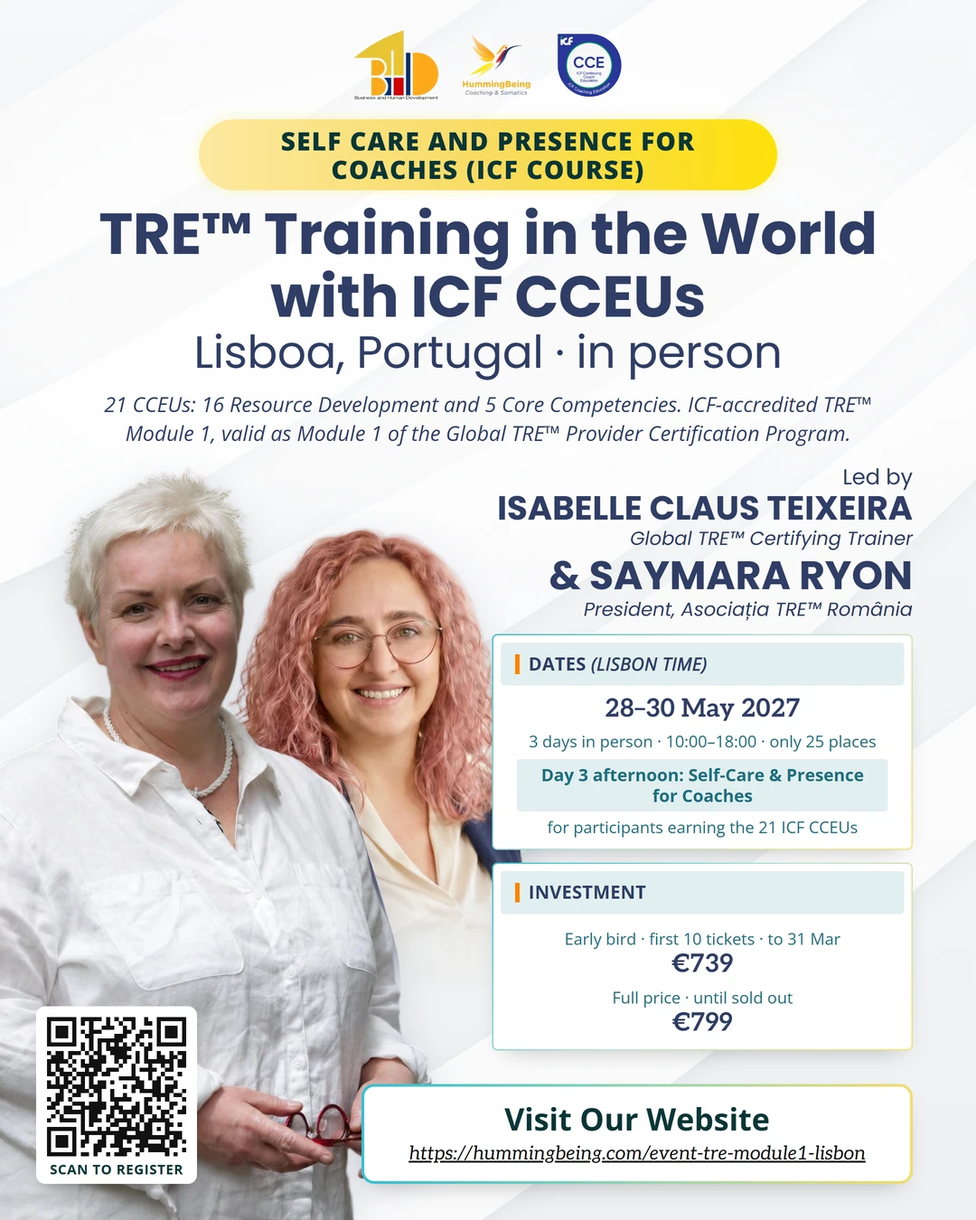
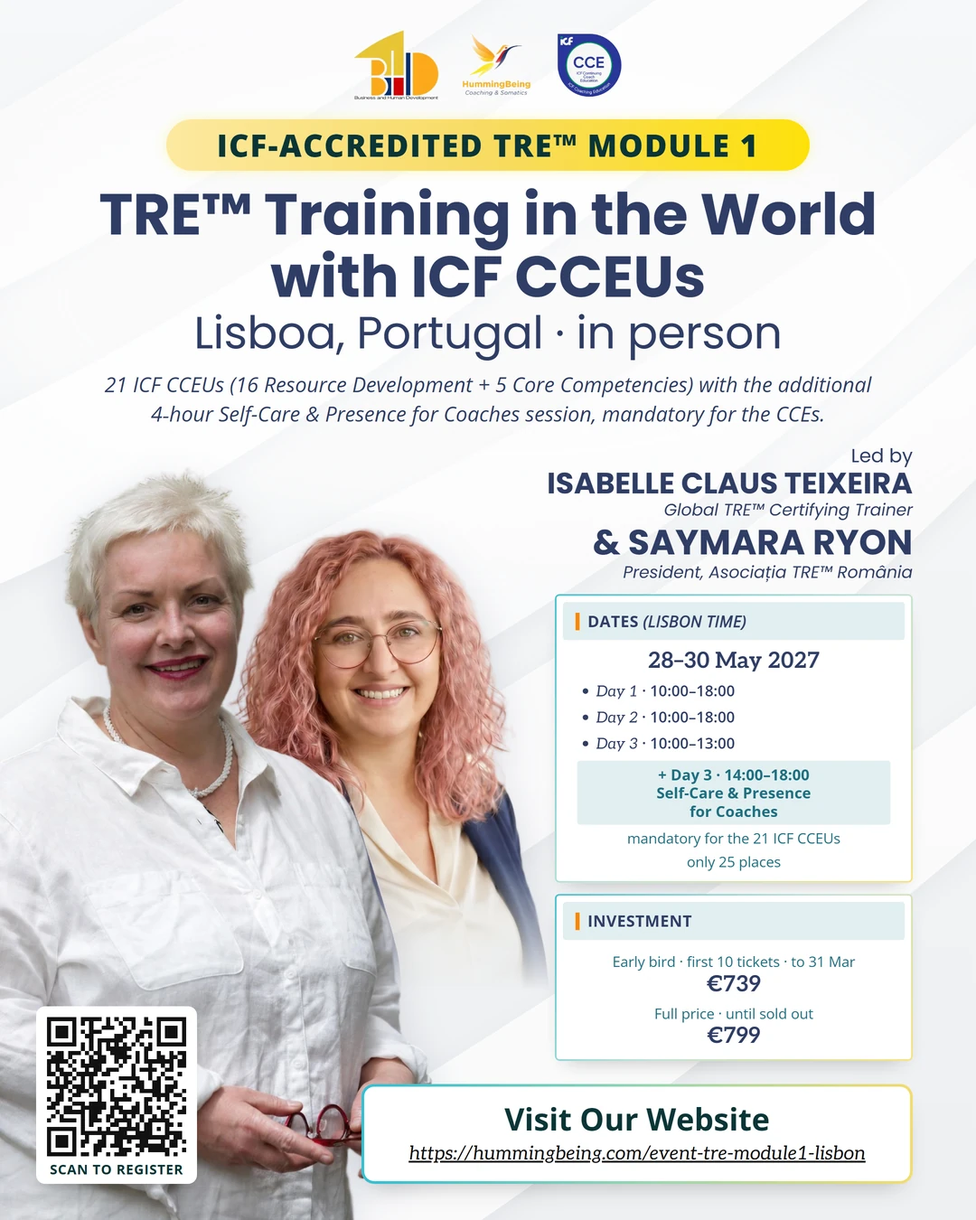
Lisbon Module 1: ICF-accredited Module 1 + additional 4 h Self-Care & Presence for Coaches (mandatory for the 21 CCEs)
Isabelle, 4 Nov (urgent): the ICF-accredited Module 1 includes an additional
4 hours, Self-Care & Presence for Coaches (Day 3, 14:00-18:00), mandatory to
get the 21 CCEs; without the CCEs attend 28 + 29 May all day and 30 May morning.
Module 2 (ICF accreditation pending) 1 June full day, 2-4 June half days;
Module 3 22-24 October 2027.

- Module 1 page: hero, why section (new module list), programme in two blocks
  (ICF-Accredited Module 1 / Day 3 afternoon for coaches), included list, JSON-LD
- Poster: banner ICF-Accredited TRE(TM) Module 1, Day 1-3 times + the extra 4 h
- 16:9 card (og:image, events/home): Isabelle's art kept, banner replaced
- Events/Home cards, llms.txt, ICF page tile, certification page (Module 1 text,
  Module 2 ICF accreditation pending); cache-busters bumped

Changed region(s): [[0.0917, 0.0933, 0.9472, 0.8711]]

diff --git a/event-tre-module1-lisbon.html b/event-tre-module1-lisbon.html
@@ -22,14 +22,14 @@ j=d.createElement(s),dl=l!="dataLayer"?"&l="+l:"";j.async=true;j.src=
   <link rel="icon" type="image/png" sizes="16x16" href="favicon-16.png?v=3" />
   <link rel="icon" href="favicon.ico?v=3" sizes="any" />
   <link rel="apple-touch-icon" href="apple-touch-icon.png?v=3" />
-  <link rel="preload" as="image" href="images/event-lisbon-module1.webp?v=1" fetchpriority="high">
+  <link rel="preload" as="image" href="images/event-lisbon-module1.webp?v=2" fetchpriority="high">
   <meta name="keywords" content="TRE™ Module 1 Portugal, TRE™ certification Lisbon, TRE™ Lisboa, ICF CCEUs TRE™, TRE™ provider certification Europe, Isabelle Claus Teixeira, Saymara Ryon" />
   <link rel="canonical" href="https://hummingbeing.com/event-tre-module1-lisbon" />
   <meta name="robots" content="index, follow" />
   <meta property="og:type" content="website" />
   <meta property="og:title" content="TRE&#8482; Module 1 Lisbon — 28&#8211;30 May 2027 | 21 ICF CCEUs" />
   <meta property="og:description" content="TRE&#8482; Module 1 Certification Training in Lisbon, Portugal — 28&#8211;30 May 2027. The only TRE&#8482; training in the world with ICF CCEUs. 25 places." />
-  <meta property="og:image" content="https://hummingbeing.com/images/event-lisbon-module1.webp?v=1" />
+  <meta property="og:image" content="https://hummingbeing.com/images/event-lisbon-module1.webp?v=2" />
   <meta property="og:url" content="https://hummingbeing.com/event-tre-module1-lisbon" />
   <meta name="twitter:card" content="summary_large_image" />
   <script type="application/ld+json">
@@ -37,7 +37,7 @@ j=d.createElement(s),dl=l!="dataLayer"?"&l="+l:"";j.async=true;j.src=
     "@context": "https://schema.org",
     "@type": "EducationEvent",
     "name": "TRE™ Module 1 — Lisbon, Portugal",
-    "description": "TRE™ Module 1 Certification Training with ICF CCEUs, 10:00-18:00 each day. 21 ICF CCEUs (16 Resource Development + 5 Core Competencies) for participants who join the Day 3 afternoon workshop, Self-Care & Presence for Coaches (30 May); for everyone else Module 1 ends at 13:00 on 30 May. Led by Isabelle Claus Teixeira, assisted by Saymara Ryon. Limited to 25 participants.",
+    "description": "ICF-accredited TRE™ Module 1 in Lisboa: Day 1 (28 May) and Day 2 (29 May) 10:00-18:00, Day 3 (30 May) 10:00-13:00. The ICF-accredited Module 1 includes an additional 4 hours, Self-Care & Presence for Coaches (30 May, 14:00-18:00), which is mandatory to attend for the 21 ICF CCEUs (16 Resource Development + 5 Core Competencies). Led by Isabelle Claus Teixeira, assisted by Saymara Ryon. Limited to 25 participants.",
     "startDate": "2027-05-28T10:00:00+01:00",
     "endDate": "2027-05-30T18:00:00+01:00",
     "eventStatus": "https://schema.org/EventScheduled",
@@ -213,7 +213,7 @@ height="0" width="0" style="display:none;visibility:hidden"></iframe></noscript>
 
 <!-- HERO -->
 <section class="ce-hero">
-  <div class="ce-bg" style="background-image:url('images/event-lisbon-module1.webp?v=1')"></div>
+  <div class="ce-bg" style="background-image:url('images/event-lisbon-module1.webp?v=2')"></div>
   <div class="ce-hero-inner">
     <div>
       <p class="ce-crumbs"><a href="/events">Events</a> &rsaquo; Certification</p>
@@ -225,7 +225,7 @@ height="0" width="0" style="display:none;visibility:hidden"></iframe></noscript>
         <span class="ce-badge">Limited to 25 places</span>
       </div>
       <h1>TRE&#8482; Module 1 <em>&mdash; Lisbon</em></h1>
-      <p class="ce-lead">A 3-day immersive certification training in Lisboa, Portugal &#8212; valid as Module 1 of the Global TRE&#8482; Provider Certification and carrying 21 ICF CCEUs. Led by Isabelle Claus Teixeira, assisted by Saymara Ryon. Delivered in English.</p>
+      <p class="ce-lead">An ICF-accredited TRE&#8482; Module 1 in Lisboa, Portugal &#8212; valid as Module 1 of the Global TRE&#8482; Provider Certification. The 21 ICF CCEUs require an additional 4 hours, <strong>Self-Care &amp; Presence for Coaches</strong> (Day 3, 14:00&#8211;18:00). Led by Isabelle Claus Teixeira, assisted by Saymara Ryon. Delivered in English.</p>
       <div class="ce-hero-actions">
         <a href="#register" class="btn btn-primary">Register now &rarr;</a>
         <a href="#programme" class="btn btn-outline">View schedule</a>
@@ -248,11 +248,17 @@ height="0" width="0" style="display:none;visibility:hidden"></iframe></noscript>
 <div class="ce-layout">
   <div class="ce-main">
     <figure class="ce-poster ce-poster-portrait" style="max-width:100%">
-      <img src="images/event-lisbon-module1-poster.webp?v=2" alt="TRE&#8482; Module 1 in Lisboa, Portugal, 28&#8211;30 May 2027, 10:00&#8211;18:00; Day 3 afternoon: Self-Care &amp; Presence for Coaches for the 21 ICF CCEUs. Led by Isabelle Claus Teixeira and Saymara Ryon. Early bird &#8364;739, full price &#8364;799." width="1080" height="1350" decoding="async" />
+      <img src="images/event-lisbon-module1-poster.webp?v=3" alt="ICF-accredited TRE&#8482; Module 1 in Lisboa, Portugal, 28&#8211;30 May 2027: Day 1 and Day 2 10:00&#8211;18:00, Day 3 10:00&#8211;13:00, plus Day 3 14:00&#8211;18:00 Self-Care &amp; Presence for Coaches, mandatory for the 21 ICF CCEUs. Led by Isabelle Claus Teixeira and Saymara Ryon. Early bird &#8364;739, full price &#8364;799." width="1080" height="1350" decoding="async" />
     </figure>
 
     <h2>Why TRE&#8482; Module 1 in Lisbon?</h2>
     <p>This is an <strong>ICF-accredited TRE&#8482; Module 1</strong> &#8212; the only TRE&#8482; training anywhere in the world that carries <strong>ICF CCEUs</strong> (21 CCEUs: 16 Resource Development + 5 Core Competencies). TRE&#8482;, developed by Dr. David Berceli, activates the body&#8217;s natural neurogenic tremoring mechanism &#8212; a reflex that releases stored stress and trauma, builds resilience and promotes deep regulation.</p>
+    <p>The <strong>ICF-accredited Module 1</strong> includes an <strong>additional 4 hours, &#8220;Self-Care &amp; Presence for Coaches&#8221;</strong>, that is <strong>mandatory to attend if you want to get the 21 CCEs</strong>. Not interested in the ICF CCEs? Attend <strong>28 May (all day), 29 May (all day) and 30 May (morning)</strong>.</p>
+    <ul class="ce-list">
+      <li><strong>Module 1</strong> (ICF-accredited) &#8212; 28, 29 and 30 May 2027, Lisboa</li>
+      <li><strong>Module 2</strong> (ICF accreditation pending) &#8212; 1 June (full day), 2, 3 and 4 June (half days) 2027, Lisboa</li>
+      <li><strong>Module 3</strong> &#8212; 22, 23 and 24 October 2027, Lisboa</li>
+    </ul>
     <p>Completing Module 1 qualifies you to <strong>use TRE&#8482; for personal practice</strong>. Combined with Modules 2 and 3, you become a <strong>Certified Global TRE&#8482; Provider</strong> &#8212; accredited to offer TRE&#8482; to individuals and groups.</p>
     <div class="ce-note"><strong>Module 1 can be booked on its own.</strong> Want to become a Certified Global TRE&#8482; Provider? Modules 1, 2 and 3 also run in Lisboa from May to October 2027 &#8212; <a href="/event-tre-certification-lisbon">see the full certification in Lisboa &rarr;</a></div>
 
@@ -266,31 +272,23 @@ height="0" width="0" style="display:none;visibility:hidden"></iframe></noscript>
     </ul>
 
     <h2 id="programme">Programme &#8212; 3 days in Lisbon</h2>
-    <p>Every day runs <strong>10:00&#8211;18:00</strong> Lisbon time. Module 1 ends at <strong>13:00 on 30 May</strong>; the Day 3 afternoon is the <strong>Self-Care &amp; Presence for Coaches</strong> workshop for participants earning the 21 ICF CCEUs.</p>
+    <p><strong>ICF-accredited Module 1:</strong> Day 1 (10:00&#8211;18:00), Day 2 (10:00&#8211;18:00) and Day 3 (10:00&#8211;13:00), Lisbon time. <strong>Day 3, 14:00&#8211;18:00</strong> is for coaches who want the ICF CCEs.</p>
     <div class="ce-sched">
       <div class="ce-day">
-        <div class="when"><b>Day 1</b><span>28 May &middot; 10:00&#8211;18:00</span></div>
-        <div><h4>TRE&#8482; Module 1 &#8212; Part 1</h4><p>The neuroscience of neurogenic tremoring, the TRE&#8482; exercise sequence, somatic awareness, containment and grounding. Guided full TRE&#8482; sessions with direct feedback from your trainers.</p></div>
+        <div class="when"><b>ICF-Accredited Module 1</b><span>Day 1 &middot; 28 May<br>10:00&#8211;18:00</span><span>Day 2 &middot; 29 May<br>10:00&#8211;18:00</span><span>Day 3 &middot; 30 May<br>10:00&#8211;13:00</span></div>
+        <div><h4>TRE&#8482; Module 1 &#8212; Full Certification</h4><p>The neuroscience of neurogenic tremoring, the TRE&#8482; exercise sequence, somatic awareness, containment and grounding. 4 guided full TRE&#8482; sessions. Deepen your practice, integrate the learning and complete Module 1: Q&amp;A, personal practice time and guidance toward Modules 2 and 3. <em>Module 1 ends at 13:00 on 30 May.</em></p></div>
       </div>
       <div class="ce-day">
-        <div class="when"><b>Day 2</b><span>29 May &middot; 10:00&#8211;18:00</span></div>
-        <div><h4>TRE&#8482; Module 1 &#8212; Part 2</h4><p>Deepen your practice: more guided TRE&#8482; sessions, personal practice time and integration of the learning.</p></div>
-      </div>
-      <div class="ce-day">
-        <div class="when"><b>Day 3 &middot; morning</b><span>30 May &middot; 10:00&#8211;13:00</span></div>
-        <div><h4>TRE&#8482; Module 1 &#8212; Completion</h4><p>Integrate the learning and complete Module 1: Q&amp;A and guidance toward Modules 2 and 3. Module 1 ends at 13:00. <em>Certificate of completion issued on completion.</em></p></div>
-      </div>
-      <div class="ce-day">
-        <div class="when"><b>Day 3 &middot; afternoon</b><span>30 May &middot; until 18:00</span></div>
-        <div><h4>Self-Care &amp; Presence for Coaches</h4><p>For participants earning the 21 ICF CCEUs: an afternoon on nervous system regulation and self-induced therapeutic tremoring &#8212; TRE&#8482; as a personal resilience and self-care practice for coaches.</p></div>
+        <div class="when"><b>Day 3 &middot; afternoon</b><span>30 May<br>14:00&#8211;18:00</span><span>For coaches who want the ICF CCEs</span></div>
+        <div><h4>Introductory Afternoon: Self-Care &amp; Presence for Coaches</h4><p>An introductory afternoon of TRE&#8482; as a personal resilience and self-care practice. <strong>Additional 4 hours, mandatory to attend for the 21 ICF CCEs.</strong> <em>ICF CCEs certificate issued on completion.</em></p></div>
       </div>
     </div>
 
     <h2>What is included</h2>
     <ul class="ce-list">
       <li><strong>Module 1 Certification</strong> &#8212; valid as Module 1 of the Global TRE&#8482; Provider Certification Program</li>
-      <li><strong>21 ICF CCEUs</strong> &#8212; 16 Resource Development + 5 Core Competencies (ICF-accredited), with the Day 3 afternoon workshop for coaches</li>
-      <li><strong>3 training days</strong> &#8212; 10:00&#8211;18:00; Module 1 ends at 13:00 on Day 3, followed by the Day 3 afternoon workshop for coaches</li>
+      <li><strong>21 ICF CCEUs</strong> &#8212; 16 Resource Development + 5 Core Competencies (ICF-accredited); attending the additional 4-hour Self-Care &amp; Presence for Coaches session (Day 3, 14:00&#8211;18:00) is mandatory for the CCEs</li>
+      <li><strong>3 training days</strong> &#8212; Day 1 and Day 2 10:00&#8211;18:00, Day 3 10:00&#8211;13:00; plus Day 3 14:00&#8211;18:00 for coaches who want the ICF CCEs</li>
       <li><strong>4 online personal TRE&#8482; sessions</strong> &#8212; included with your training</li>
       <li><strong>Small group</strong> &#8212; limited to 25 participants, led by a Global TRE&#8482; Certifying Trainer with an assisting provider, in English</li>
       <li><strong>Global recognition</strong> &#8212; Module 1 is recognised worldwide under the Global TRE&#8482; Certification Program</li>

diff --git a/events.html b/events.html
@@ -613,7 +613,7 @@ j=d.createElement(s),dl=l!="dataLayer"?"&l="+l:"";j.async=true;j.src=
         "url": "https://hummingbeing.com/isabelle"
       },
       "name": "TRE™ Module 1 — Lisbon, Portugal",
-      "description": "A 3-day TRE™ Module 1 certification training (10:00-18:00) with 21 ICF CCEUs for participants who join the Day 3 afternoon workshop, Self-Care & Presence for Coaches. Led by Isabelle Claus Teixeira and assisted by Saymara Ryon. Limited to 25 places.",
+      "description": "ICF-accredited TRE™ Module 1 in Lisboa: 28 and 29 May 10:00-18:00, 30 May 10:00-13:00. The 21 ICF CCEUs require the additional 4-hour Self-Care & Presence for Coaches session (30 May, 14:00-18:00). Led by Isabelle Claus Teixeira and assisted by Saymara Ryon. Limited to 25 places.",
       "startDate": "2027-05-28",
       "endDate": "2027-05-30",
       "eventStatus": "https://schema.org/EventScheduled",
@@ -1414,12 +1414,12 @@ height="0" width="0" style="display:none;visibility:hidden"></iframe></noscript>
 
     <!-- 6. TRE™ Module 1 Lisbon (28-30 May 2027) -->
     <article class="evt-card" data-cat="international certification" data-start="2027-05-28" data-end="2027-05-30">
-      <a href="/event-tre-module1-lisbon" class="evt-card-thumb"><img src="images/card-event-lisbon-module1.webp?v=1" alt="TRE&#8482; Module 1 Lisboa, Portugal, 28&#8211;30 May 2027, with Isabelle Claus Teixeira and Saymara Ryon" loading="lazy" decoding="async" width="1920" height="1080" /></a>
+      <a href="/event-tre-module1-lisbon" class="evt-card-thumb"><img src="images/card-event-lisbon-module1.webp?v=2" alt="TRE&#8482; Module 1 Lisboa, Portugal, 28&#8211;30 May 2027, with Isabelle Claus Teixeira and Saymara Ryon" loading="lazy" decoding="async" width="1920" height="1080" /></a>
       <div class="evt-card-content">
         <div class="evt-card-tags"><span class="evt-tag loc">Portugal</span><span class="evt-tag">21 ICF CCEUs</span></div>
         <h3>TRE&#8482; Module 1 &mdash; Lisbon</h3>
         <div class="evt-dates"><span class="evt-date-tag" data-start="2027-05-28" data-end="2027-05-30">28&ndash;30 May 2027 &middot; Lisboa</span></div>
-        <p class="evt-card-desc">A 3-day TRE&#8482; Module 1 in Lisboa, Portugal (10:00&#8211;18:00), led by Isabelle Claus Teixeira and assisted by Saymara Ryon. 21 ICF CCEUs with the Day 3 afternoon workshop, Self-Care &amp; Presence for Coaches. Only 25 places. Early bird &#8364;739 (first 10, until 31 March 2027), then &#8364;799.</p>
+        <p class="evt-card-desc">ICF-accredited TRE&#8482; Module 1 in Lisboa, Portugal: 28 and 29 May (10:00&#8211;18:00) and 30 May (10:00&#8211;13:00), led by Isabelle Claus Teixeira and assisted by Saymara Ryon. The 21 ICF CCEUs require the additional 4-hour Self-Care &amp; Presence for Coaches session (30 May, 14:00&#8211;18:00). Only 25 places. Early bird &#8364;739 (first 10, until 31 March 2027), then &#8364;799.</p>
         <div class="evt-card-actions">
           <a href="/event-tre-module1-lisbon#register" class="btn btn-primary">Register</a>
           <a href="/event-tre-module1-lisbon" class="btn evt-btn-2">Details</a>

diff --git a/index.html b/index.html
@@ -882,13 +882,13 @@ height="0" width="0" style="display:none;visibility:hidden"></iframe></noscript>
       </article>
       <article class="home-evt-card hx-rv" data-cat="international certification" style="--d:440ms">
         <a href="/event-tre-module1-lisbon" class="home-evt-thumb" aria-label="TRE™ Module 1 — Lisbon - event details">
-          <img src="images/card-event-lisbon-module1.webp?v=1" alt="TRE&#8482; Module 1 Lisboa, Portugal, 28&#8211;30 May 2027, with Isabelle Claus Teixeira and Saymara Ryon" loading="lazy" decoding="async" width="1920" height="1080" />
+          <img src="images/card-event-lisbon-module1.webp?v=2" alt="TRE&#8482; Module 1 Lisboa, Portugal, 28&#8211;30 May 2027, with Isabelle Claus Teixeira and Saymara Ryon" loading="lazy" decoding="async" width="1920" height="1080" />
         </a>
         <div class="home-evt-body">
           <div class="home-evt-tags"><span class="home-evt-tag loc">Portugal</span><span class="home-evt-tag">Certification</span></div>
           <h3>TRE&#8482; Module 1 &mdash; Lisbon</h3>
           <div class="evt-dates"><span class="evt-date-tag" data-start="2027-05-28" data-end="2027-05-30">28&ndash;30 May 2027 &middot; Lisboa</span></div>
-          <p class="home-evt-desc">A 3-day TRE&#8482; Module 1 in Lisboa, Portugal (10:00&#8211;18:00), led by Isabelle Claus Teixeira and assisted by Saymara Ryon. 21 ICF CCEUs with the Day 3 afternoon workshop, Self-Care &amp; Presence for Coaches. Only 25 places. Early bird &#8364;739 (first 10, until 31 March 2027), then &#8364;799.</p>
+          <p class="home-evt-desc">ICF-accredited TRE&#8482; Module 1 in Lisboa, Portugal: 28 and 29 May (10:00&#8211;18:00) and 30 May (10:00&#8211;13:00), led by Isabelle Claus Teixeira and assisted by Saymara Ryon. The 21 ICF CCEUs require the additional 4-hour Self-Care &amp; Presence for Coaches session (30 May, 14:00&#8211;18:00). Only 25 places. Early bird &#8364;739 (first 10, until 31 March 2027), then &#8364;799.</p>
           <div class="home-evt-actions">
             <a href="/event-tre-module1-lisbon#register" class="btn btn-primary">Register &mdash; from &euro;739</a>
             <a href="/event-tre-module1-lisbon" class="btn home-evt-btn2">Details</a>

diff --git a/event-tre-certification-lisbon.html b/event-tre-certification-lisbon.html
@@ -283,10 +283,10 @@ height="0" width="0" style="display:none;visibility:hidden"></iframe></noscript>
     <div class="ce-sched">
       <div class="ce-day">
         <div class="when"><b>Module 1</b><span>28&#8211;30 May 2027 &middot; Lisboa</span></div>
-        <div><h4>Your Personal TRE&#8482; Practice</h4><p>A 3-day in-person workshop plus 4 online personal sessions. 10:00&#8211;18:00 each day: Module 1 ends at 13:00 on 30 May, and the afternoon of 30 May is the Self-Care &amp; Presence for Coaches workshop for participants earning the 21 ICF CCEs. <a href="/event-tre-module1-lisbon" style="color:var(--gold-dark);font-weight:700">Can be purchased alone &rarr;</a></p></div>
+        <div><h4>Your Personal TRE&#8482; Practice</h4><p>A 3-day in-person workshop plus 4 online personal sessions. Day 1 and Day 2 10:00&#8211;18:00, Day 3 10:00&#8211;13:00. The ICF-accredited Module 1 includes an additional 4 hours, Self-Care &amp; Presence for Coaches (30 May, 14:00&#8211;18:00), mandatory to attend for the 21 ICF CCEs. <a href="/event-tre-module1-lisbon" style="color:var(--gold-dark);font-weight:700">Can be purchased alone &rarr;</a></p></div>
       </div>
       <div class="ce-day">
-        <div class="when"><b>Module 2</b><span>1&#8211;4 June 2027 &middot; Lisboa</span></div>
+        <div class="when"><b>Module 2</b><span>1&#8211;4 June 2027 &middot; Lisboa</span><span>ICF accreditation pending</span></div>
         <div><h4>Teaching TRE&#8482; to One Person</h4><p>A 2.5-day in-person workshop plus 4 online individual supervisions, building your skills to guide one person safely through TRE&#8482;. 1 June 10:00&#8211;18:00; 2, 3 and 4 June 9:30&#8211;13:30.</p></div>
       </div>
       <div class="ce-day">

diff --git a/event-certification-2027-foundational.html b/event-certification-2027-foundational.html
@@ -458,7 +458,7 @@ height="0" width="0" style="display:none;visibility:hidden"></iframe></noscript>
     {t:'The Body in the Room',s:'Online &middot; 25 Nov 2026 &middot; 7&#8211;9pm SGT',img:'card-event-body-in-the-room.webp?v=1',h:'/event-body-in-the-room',end:'2026-11-25'},
     {t:'Breath as a medicine',s:'Online &middot; 15 Dec 2026 &middot; 7&#8211;9pm SGT',img:'card-event-breath-as-medicine.webp?v=1',h:'/event-breath-as-medicine',end:'2026-12-15'},
     {t:'The Art of Conscious Rest',s:'Online &middot; 24 Jan 2027 &middot; 8&#8211;10pm SGT',img:'card-event-art-of-conscious-rest.webp?v=1',h:'/event-art-of-conscious-rest',end:'2027-01-24'},
-    {t:'TRE&#8482; Module 1 &mdash; Lisbon',s:'Lisboa &middot; 28&#8211;30 May 2027',img:'card-event-lisbon-module1.webp?v=1',h:'/event-tre-module1-lisbon',end:'2027-05-30'},
+    {t:'TRE&#8482; Module 1 &mdash; Lisbon',s:'Lisboa &middot; 28&#8211;30 May 2027',img:'card-event-lisbon-module1.webp?v=2',h:'/event-tre-module1-lisbon',end:'2027-05-30'},
     {t:'TRE&#8482; Certification &mdash; Lisboa 2027',s:'Lisboa &middot; Modules 1&#8211;3 &middot; May&#8211;Oct 2027',img:'event-lisbon-certification.webp?v=2',h:'/event-tre-certification-lisbon',end:'2027-10-24'},
     {t:'TRE&#8482; Module 1 ONLINE &mdash; TRE Scotland',s:'Online &middot; 18&#8211;20 June 2027 &middot; UK time',img:'card-event-scotland-online-module1.webp?v=2',h:'/event-tre-module1-online-scotland',end:'2027-06-20'}
   ];

diff --git a/event-certification-2027-growth.html b/event-certification-2027-growth.html
@@ -469,7 +469,7 @@ height="0" width="0" style="display:none;visibility:hidden"></iframe></noscript>
     {t:'The Body in the Room',s:'Online &middot; 25 Nov 2026 &middot; 7&#8211;9pm SGT',img:'card-event-body-in-the-room.webp?v=1',h:'/event-body-in-the-room',end:'2026-11-25'},
     {t:'Breath as a medicine',s:'Online &middot; 15 Dec 2026 &middot; 7&#8211;9pm SGT',img:'card-event-breath-as-medicine.webp?v=1',h:'/event-breath-as-medicine',end:'2026-12-15'},
     {t:'The Art of Conscious Rest',s:'Online &middot; 24 Jan 2027 &middot; 8&#8211;10pm SGT',img:'card-event-art-of-conscious-rest.webp?v=1',h:'/event-art-of-conscious-rest',end:'2027-01-24'},
-    {t:'TRE&#8482; Module 1 &mdash; Lisbon',s:'Lisboa &middot; 28&#8211;30 May 2027',img:'card-event-lisbon-module1.webp?v=1',h:'/event-tre-module1-lisbon',end:'2027-05-30'},
+    {t:'TRE&#8482; Module 1 &mdash; Lisbon',s:'Lisboa &middot; 28&#8211;30 May 2027',img:'card-event-lisbon-module1.webp?v=2',h:'/event-tre-module1-lisbon',end:'2027-05-30'},
     {t:'TRE&#8482; Certification &mdash; Lisboa 2027',s:'Lisboa &middot; Modules 1&#8211;3 &middot; May&#8211;Oct 2027',img:'event-lisbon-certification.webp?v=2',h:'/event-tre-certification-lisbon',end:'2027-10-24'},
     {t:'TRE&#8482; Module 1 ONLINE &mdash; TRE Scotland',s:'Online &middot; 18&#8211;20 June 2027 &middot; UK time',img:'card-event-scotland-online-module1.webp?v=2',h:'/event-tre-module1-online-scotland',end:'2027-06-20'}
   ];

diff --git a/event-certification-2027-refresher.html b/event-certification-2027-refresher.html
@@ -528,7 +528,7 @@ height="0" width="0" style="display:none;visibility:hidden"></iframe></noscript>
     {t:'The Body in the Room',s:'Online &middot; 25 Nov 2026 &middot; 7&#8211;9pm SGT',img:'card-event-body-in-the-room.webp?v=1',h:'/event-body-in-the-room',end:'2026-11-25'},
     {t:'Breath as a medicine',s:'Online &middot; 15 Dec 2026 &middot; 7&#8211;9pm SGT',img:'card-event-breath-as-medicine.webp?v=1',h:'/event-breath-as-medicine',end:'2026-12-15'},
     {t:'The Art of Conscious Rest',s:'Online &middot; 24 Jan 2027 &middot; 8&#8211;10pm SGT',img:'card-event-art-of-conscious-rest.webp?v=1',h:'/event-art-of-conscious-rest',end:'2027-01-24'},
-    {t:'TRE&#8482; Module 1 &mdash; Lisbon',s:'Lisboa &middot; 28&#8211;30 May 2027',img:'card-event-lisbon-module1.webp?v=1',h:'/event-tre-module1-lisbon',end:'2027-05-30'},
+    {t:'TRE&#8482; Module 1 &mdash; Lisbon',s:'Lisboa &middot; 28&#8211;30 May 2027',img:'card-event-lisbon-module1.webp?v=2',h:'/event-tre-module1-lisbon',end:'2027-05-30'},
     {t:'TRE&#8482; Certification &mdash; Lisboa 2027',s:'Lisboa &middot; Modules 1&#8211;3 &middot; May&#8211;Oct 2027',img:'event-lisbon-certification.webp?v=2',h:'/event-tre-certification-lisbon',end:'2027-10-24'},
     {t:'TRE&#8482; Module 1 ONLINE &mdash; TRE Scotland',s:'Online &middot; 18&#8211;20 June 2027 &middot; UK time',img:'card-event-scotland-online-module1.webp?v=2',h:'/event-tre-module1-online-scotland',end:'2027-06-20'}
   ];

diff --git a/event-certification-2027.html b/event-certification-2027.html
@@ -516,7 +516,7 @@ height="0" width="0" style="display:none;visibility:hidden"></iframe></noscript>
     {t:'The Body in the Room',s:'Online &middot; 25 Nov 2026 &middot; 7&#8211;9pm SGT',img:'card-event-body-in-the-room.webp?v=1',h:'/event-body-in-the-room',end:'2026-11-25'},
     {t:'Breath as a medicine',s:'Online &middot; 15 Dec 2026 &middot; 7&#8211;9pm SGT',img:'card-event-breath-as-medicine.webp?v=1',h:'/event-breath-as-medicine',end:'2026-12-15'},
     {t:'The Art of Conscious Rest',s:'Online &middot; 24 Jan 2027 &middot; 8&#8211;10pm SGT',img:'card-event-art-of-conscious-rest.webp?v=1',h:'/event-art-of-conscious-rest',end:'2027-01-24'},
-    {t:'TRE&#8482; Module 1 &mdash; Lisbon',s:'Lisboa &middot; 28&#8211;30 May 2027',img:'card-event-lisbon-module1.webp?v=1',h:'/event-tre-module1-lisbon',end:'2027-05-30'},
+    {t:'TRE&#8482; Module 1 &mdash; Lisbon',s:'Lisboa &middot; 28&#8211;30 May 2027',img:'card-event-lisbon-module1.webp?v=2',h:'/event-tre-module1-lisbon',end:'2027-05-30'},
     {t:'TRE&#8482; Certification &mdash; Lisboa 2027',s:'Lisboa &middot; Modules 1&#8211;3 &middot; May&#8211;Oct 2027',img:'event-lisbon-certification.webp?v=2',h:'/event-tre-certification-lisbon',end:'2027-10-24'},
     {t:'TRE&#8482; Module 1 ONLINE &mdash; TRE Scotland',s:'Online &middot; 18&#8211;20 June 2027 &middot; UK time',img:'card-event-scotland-online-module1.webp?v=2',h:'/event-tre-module1-online-scotland',end:'2027-06-20'}
   ];

diff --git a/tre-icf-cceu.html b/tre-icf-cceu.html
@@ -180,7 +180,7 @@ height="0" width="0" style="display:none;visibility:hidden"></iframe></noscript>
   </div>
   <div class="tile-grid" style="grid-template-columns:repeat(2,1fr);max-width:820px">
     <a class="tile" href="/event-certification-2027" style="text-decoration:none"><i class="fa-solid fa-location-dot"></i><h3>Singapore &middot; 27&#8211;28 February 2027</h3><p>Module 1 of the 2027 certification cohort. 21 ICF CCEs with the Growth Package.</p></a>
-    <a class="tile" href="/event-tre-module1-lisbon" style="text-decoration:none"><i class="fa-solid fa-location-dot"></i><h3>Lisboa &middot; 28&#8211;30 May 2027</h3><p>Three days in Lisbon, Portugal; the 21 ICF CCEs come with the Day 3 afternoon workshop for coaches. 25 places. Early bird &#8364;739 until 31 March 2027.</p></a>
+    <a class="tile" href="/event-tre-module1-lisbon" style="text-decoration:none"><i class="fa-solid fa-location-dot"></i><h3>Lisboa &middot; 28&#8211;30 May 2027</h3><p>Three days in Lisbon, Portugal; the 21 ICF CCEs require the additional 4-hour Self-Care &amp; Presence for Coaches session (Day 3, 14:00&#8211;18:00). 25 places. Early bird &#8364;739 until 31 March 2027.</p></a>
   </div>
   <div class="gd-actions"><a href="/events" class="btn btn-primary">See All Events</a><a href="/tre-certification" class="btn btn-dark">The Full Certification Path</a></div>
 </section>

diff --git a/event-tre-module1-online-scotland.html b/event-tre-module1-online-scotland.html
@@ -357,7 +357,7 @@ height="0" width="0" style="display:none;visibility:hidden"></iframe></noscript>
     <h2>Other upcoming events</h2>
     <div class="ce-rel-grid">
       <a class="ce-rel" href="/event-tre-module1-lisbon">
-        <img src="images/card-event-lisbon-module1.webp?v=1" alt="TRE&#8482; Module 1 Lisbon" loading="lazy" decoding="async" />
+        <img src="images/card-event-lisbon-module1.webp?v=2" alt="TRE&#8482; Module 1 Lisbon" loading="lazy" decoding="async" />
         <div class="b"><strong>TRE&#8482; Module 1 &mdash; Lisbon</strong><span>Lisboa &middot; 28&#8211;30 May 2027</span></div>
       </a>
       <a class="ce-rel" href="/event-breath-as-medicine">
